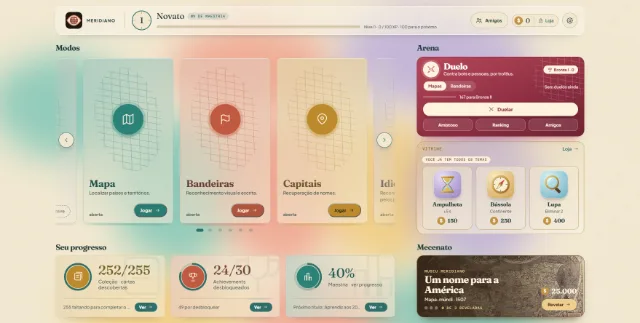
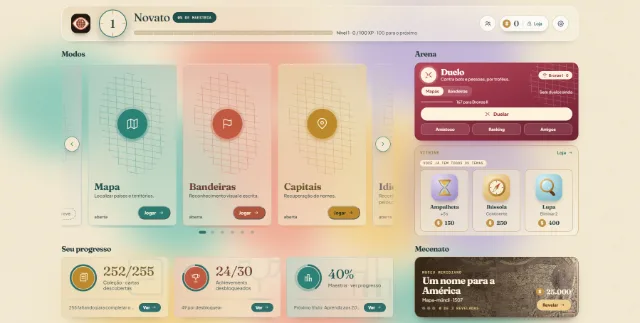
feat(hub): cabeçalho "medalhas" (jogador em destaque, títulos em medalhas e fichas brancas à direita)

diff --git a/src/hub.css b/src/hub.css
@@ -39,6 +39,38 @@
 .hx .hub-gear{display:grid;place-items:center;flex:none;width:42px;height:42px;padding:0;border:1px solid var(--line);border-radius:50%;background:var(--paper);color:var(--ink)}
 .hx .hub-gear:hover{border-color:var(--green);color:var(--green)}
 
+/* ───────── cabeçalho "medalhas" (04/10/2026; mock em mockups-carta-cega/hub-header, opção C) ─────────
+   Jogador em destaque: anel maior, títulos como medalhas de latão, maestria em pílula, barra de XP com marcas e fichas brancas à direita.
+   O fundo, a borda e a sombra continuam sendo dos temas; o brilho de latão é uma camada à parte (::before) para não brigar com eles. */
+.hx .hub-bar{position:relative}
+.hx .hub-bar::before{content:"";position:absolute;inset:0;border-radius:inherit;pointer-events:none;background:radial-gradient(120% 220% at 8% 0%,color-mix(in srgb,var(--brass) 22%,transparent),transparent 55%)}
+.hx .hub-bar>*{position:relative}
+.hx .hub-friends,.hx .hub-gear,.hx .hub-coin{background:rgba(255,255,255,.78);border:1px solid color-mix(in srgb,var(--line) 80%,#fff);color:var(--ink)}
+:root[data-scheme=dark] .hx .hub-friends,:root[data-scheme=dark] .hx .hub-gear,:root[data-scheme=dark] .hx .hub-coin{background:rgba(255,255,255,.09);border-color:rgba(255,255,255,.2)}
+@media (min-width:761px){
+  .hx .hub-bar{height:100px;padding:0 26px;gap:24px;border-radius:26px;box-shadow:0 22px 34px -24px rgba(36,59,58,.6)}
+  .hx .hub-brand{border-right:0;padding:0}
+  .hx .hub-brand span{display:none}
+  .hx .hub-brand .brand-logo{width:54px;height:54px;border-radius:15px;box-shadow:0 10px 16px -10px rgba(0,0,0,.6)}
+  .hx .hub-player{column-gap:20px;row-gap:7px}
+  .hx .hub-level{width:78px;height:78px;filter:drop-shadow(0 10px 14px rgba(36,59,58,.3))}
+  .hx .hub-level strong{font-size:32px}
+  .hx .hub-title{font-size:32px;letter-spacing:-.03em}
+  .hx .hub-badges{gap:7px}
+  .hx .hub-badge{width:34px;height:34px;padding:0;gap:0;border-radius:50%;background:linear-gradient(145deg,#f6dc9a,#c9953f);color:#3a2606;border:2px solid #fff6dc;box-shadow:0 6px 10px -5px rgba(90,60,10,.6)}
+  .hx .hub-badge svg{width:17px;height:17px}
+  .hx .hub-badge-label{position:absolute;width:1px;height:1px;overflow:hidden;clip:rect(0 0 0 0)}
+  .hx .hub-mastery{display:inline-flex;align-items:center;height:30px;padding:0 14px;border-radius:99px;background:color-mix(in srgb,var(--green) 62%,#04161a);color:#fff4df}
+  .hx .hub-mastery b{color:#fff4df}
+  .hx .hub-track{flex:1 1 240px;max-width:560px;height:12px;border-radius:7px;background-image:repeating-linear-gradient(90deg,transparent 0 calc(10% - 1px),rgba(255,255,255,.55) calc(10% - 1px) 10%);box-shadow:inset 0 1px 3px rgba(0,0,0,.2)}
+  .hx .hub-xp-label{font-size:12.5px;color:var(--ink)}
+  .hx .hub-friends{width:46px;height:46px;padding:0;justify-content:center;border-radius:50%}
+  .hx .hub-friends span{display:none}
+  .hx .hub-gear{width:46px;height:46px}
+  .hx .hub-coin{height:46px;padding:0 18px 0 8px;box-shadow:0 10px 16px -12px rgba(36,59,58,.55)}
+  .hx .hub-coin strong{font-size:22px}
+}
+
 /* ───────── grade ───────── */
 /* A página usa a largura que a janela der (até 1760 px): o Hub é a tela de entrada e as laterais ficavam vazias. A coluna da direita (Duelo, Vitrine) cresce
    com a janela e o vão entre as duas colunas também; os cartões de modo não encolhem, quem cede é o vão. */

diff --git a/CLAUDE.md b/CLAUDE.md
@@ -53,7 +53,7 @@ Este arquivo descreve o **rebuild** (estado em 25/09/2026). O jogo antigo, um ú
 Hub (4 famílias: Mapa, Bandeiras, Capitais, Idiomas; carrossel no celular; seletor Solo | Duelo, ver 3.2d) → "Configure a partida" (`match-config.tsx`: **Modo, Ritmo, Rodadas, Recorte, Filtro "Só membros da ONU"**, ligado por padrão desde 26/09; a escolha vale até fechar o app, não é gravada) → partida → resultado (`result-screen.tsx`, moedas/XP). Fora da partida: Progresso (Perfil, Maestria, Conquistas, Desempenho), Coleção (Países / Históricas), Conquistas, Loja (temas), Opções (idioma, tema, movimento reduzido, barra de tempo, progresso, mapa offline, debug). `useLeaveGuard`: sair no meio **não paga moedas nem XP**; com ao menos uma resposta pede confirmação.
 
 ### 3.2e Hub novo (03/10/2026, em etapas; mocks aprovados em `../mockups-carta-cega/hub-final`)
-O Hub (`screens.tsx`, `hub-parts.tsx`, `hub.css`) foi refeito: **header fino** de uma linha (marca, anel de nível com a moldura da liga, título, ícones dos títulos, chip de maestria, barra de XP, chip de troféus, moedas com a palavra "Loja", engrenagem; partidas e rodadas saíram do Hub, seguem no Progresso) e **grade 2×2**: à esquerda o **carrossel dos modos** (`HubCarousel`, **em laço**: 3 cartões inteiros por vez no desktop, 2 em tablet e 1 no celular, com a borda do vizinho aparecendo dos dois lados, setas nos dois sentidos, pontos, deslize por toque e clique no vizinho para avançar; hoje Mapa, Bandeiras, Capitais e Idiomas. O laço é a fila renderizada 3 vezes, só a do meio interativa e as outras `inert`, e a posição volta em silêncio para a do meio quando o deslize termina; o passo é medido com `getBoundingClientRect`, porque `offsetLeft` arredonda e o erro cresce a cada cartão) e embaixo "Seu progresso" (3 tiles verticais); à direita o **Duelo** (`HubDuel`) e a **Vitrine** (`HubShowcase`) e embaixo o **Mecenato** (`HubMuseum`, abre a aba do Museu da Coleção por `initialAlbum`). O interruptor Solo | Duelo **saiu**: o Duelo mora no próprio cartão (escada Mapas | Bandeiras, liga e troféus, últimos 5 resultados, "Duelar" na fila valendo, e Amistoso, Ranking e Amigos; buscando, vira "Procurando… m:ss", duelar contra bot e cancelar). O painel "Próximos prêmios" da arena antigo foi trocado pela barra "N para a próxima divisão" no cartão; `DuelArenas` e `duelMode` foram **removidos** em 04/10 (o tipo `ArenaSearch` mora em `hub-parts.tsx`; "Jogar contra bots" da tela da fila só volta ao Hub). **Vitrine:** `pickShowcaseTheme` (`hub-showcase.ts`, `test:hub-showcase`) mostra o tema mais caro que cabe no saldo (ou o mais barato que falta); **com todos os temas comprados destaca os três suprimentos** (Ampulheta, Bússola e Lupa, com ilustrações próprias em `supply-art.tsx`, usadas também na Loja) e o toque leva à Loja já na aba Suprimentos (`onOpenSupplies`, `storeTab` no `app.tsx`). **Cartão de modo:** precisão do pilar (`titleScore`) vinda do `syncAchievements` do app. **Ajustes de 04/10 (feedback do Enzo no link ao vivo):** o **chip de troféus/elo saiu do cabeçalho** (duplicava a pílula do cartão do Duelo, que segue abrindo a Liga) e entrou o botão **Amigos** (`.hub-friends`, ícone `people`; só ícone no celular); a marca ficou maior e o XP ocupa o meio; com a largura do cabeçalho sobrando, os selos de título mostram o nome a partir de 1280 px. O carrossel ganhou **Gentílicos e Moedas como "Em breve"** (cartões `.is-soon`, sem ação, na tinta do tema; quando o modo existir, vira item de `familyItems`). **"Seu progresso"** foi refeito no desktop: cada tile tem um **anel de progresso** em volta do ícone, o número grande, uma marca d'água do ícone, a legenda e um botão "Ver" (cor própria por tile, mais clara no esquema escuro; `--tile`). **Largura (04/10, pedido do Enzo):** o Hub usa até 1560 px (antes 1168; testei 1760 e as laterais do cabeçalho ficavam vazias, 04/10), com a coluna da direita entre 320 e 460 px e um vão de 30 a 60 px entre as colunas; os cartões de modo não encolhem, quem cede é o vão. **Celular (≤760 px):** tudo numa tela e sem rolagem: cabeçalho, **um modo por vez** num retângulo grande (carrossel em laço, com os vizinhos espiando e setas), Duelo em faixa e, na última linha antes da barra de baixo, Vitrine e Mecenato lado a lado; **o progresso saiu do celular** (a barra de baixo já cumpre o papel) e as pílulas "Mais modos" também (todos os modos estão no carrossel). Em telefone baixo (≤700 px de altura) somem a descrição e o resumo da última partida do cartão. CSS: `hub.css` vem depois do `index.css` e antes dos temas; os temas seguem pintando `.hub-bar`, `.family` e os tiles; as peças novas só usam variáveis de cor. **"Continuar" embutido (etapa 2):** ao começar uma partida solo o app grava a configuração do modo (`carta-last-config:<modo>`, `parseLastConfig` em `presets.ts`, testado em `test:presets`); o cartão mostra uma pílula com ela (nome da favorita, ex. "Escrita · Mundo · 20"), o botão **Continuar** (repete sem passar pela configuração; `continueGame` no `app.tsx`, que cai na configuração se o modo ou o corte de rodadas não estiver liberado) e o ícone de **ajustar** (abre a configuração); sem partida gravada, só "Jogar". O cartão inteiro é uma sobreposição (`.hx-hit`) que abre a configuração. A barra de baixo do celular passou a ter os cinco destinos com rótulo (Modos, Coleção, Conquistas, Progresso e **Loja**; as Opções abrem pela engrenagem do Hub). **Loja reimaginada (etapa 3, 03/10/2026; `store-view.tsx`, `store.css`, `domain/store-catalog.ts`, `test:store-catalog`):** a tela é uma vitrine, não uma lista: barra fina (← Hub, "Loja", saldo), **destaque** (`pickShowcaseTheme`, o mesmo do Hub: o tema mais caro que cabe, senão o mais barato que falta, com barra "Você tem X · faltam Y"; some quando todos os temas são seus), **abas** Tudo, Temas, Modos, Rodadas, Suprimentos e Ligas (contadores do que falta comprar, `storeCounts`), **"Sugestões para você"** (`storeSuggestions`: o modo mais barato, o tema mais perto do saldo, o corte de rodadas mais barato e um suprimento), seções por tipo e a faixa do Mecenato (abre a aba Museu da Coleção). **Tudo o que se compra passa por uma confirmação** (`PurchaseDialog`: preço, saldo, depois ou quanto falta; folha inferior no celular; Esc fecha; suprimento tem seletor de quantidade). Modos à venda vêm de `POLICIES` (custo > 0) e se compram com `unlockContent(família, variante, "mundo")`; cortes de rodada com `unlockRounds`; temas e suprimentos como antes. **Experimentar (04/10):** na confirmação de compra de um tema (e no destaque) há "Experimentar": o tema vale na tela sem gravar nem cobrar (`tryTheme`/`trial` no `app.tsx`; o `localStorage` segue com o tema de verdade), uma faixa `TrialBar` avisa no Hub e na Loja, e o teste acaba quando a pessoa **sai do resultado da próxima partida** (ou em "Sair do teste"); comprar durante o teste limpa o teste. Temas de liga não se experimentam. **Sem temas a comprar, o destaque do topo mostra os três suprimentos** (como a Vitrine do Hub). **Largura e cor (04/10):** a Loja usa a mesma largura do Hub (até 1560 px) com colunas que se adaptam (`auto-fill`); as linhas curtas da aba Tudo mostram 4 cartões (6 acima de 1500 px) e os cartões de modo levam a cor da família (Mapa, Bandeiras, Capitais, Idiomas; `modeFam`), enquanto rodadas e suprimentos ficam na tinta do tema. **Prévias dos temas** (`scripts/build-theme-previews.mjs`, mostradas no destaque e nos cartões da Loja e na Vitrine) foram regeradas para o Hub novo: BASE padrão `127.0.0.1:5101` (servidor de desenvolvimento, nunca a 5000), perfil de amostra com todos os temas (por isso a Vitrine sai com os suprimentos em todas), `captureBeyondViewport:false` (o padrão do Puppeteer redimensiona a janela e o scroll-snap do carrossel trocava de cartão) e a captura é reduzida no próprio Chrome para 640×323, uns 20 KB cada. Rode de novo quando o Hub ou o CSS de um tema mudar. O CSS antigo `store-*` dos temas foi removido em 04/10 (sobrou só `.store-swatches`, agora em `store.css`, usado também pela Vitrine do Hub). Cores só por variáveis do tema (`color-mix` com `--brass`, `--green`, `--ink`), então os temas escuros não pedem regra própria; `audit-theme.mjs <tema> loja` (agora com as abas novas e as duas confirmações) fecha com 0 violações em Pigmentos, Noturno, Cartógrafo, Prata, Aquarela e Atlas no desktop e em Pigmentos, Noturno, Cartógrafo e Atlas no celular. Junto saíram o ícone `check` e o ícone `close` (o `cross` do projeto desenha um "+") e a barra superior genérica (`.topbar`) dos temas escuros, que ficava creme (`themes-dark.css`). **Mesa de jogo (04/10/2026; `match-config.tsx`, `mesa.css`, mock `hub-v10` n4–n7):** a tela "Configure a partida" virou a Mesa: **a Mesa mostra só os modos da família que foi aberta** (decisão do Enzo, 04/10: quem clica em Mapas vê modos de mapa; a faixa que trocava de família foi tirada), em cartões grandes sob o rótulo "Modo" (com dica, cadeado e preço), Ritmo, Rodadas e Recorte lado a lado, filtro da ONU, Favoritas e a barra de resumo com "Começar". O topo é a `ScreenBar` (`screen-bar.tsx`, a mesma da Loja: marca, voltar, ícone da família ou título, saldo). A família pinta a tela (`data-fam` no `.mz` entrega o `--h` do tema). Ao lado: **Seu histórico** (anel com a precisão do pilar; **sem o gráfico das últimas partidas e sem "Mais difíceis para você" nem "Pergunta de exemplo" do mock**, que pedem dados/textos novos) e **Recompensa** (moedas por acerto, teto de sequência `STREAK_CAP` e bônus por rodada completa). Toda a lógica da tela antiga (compra de modo e de corte de rodadas, direção das bandeiras, favoritas) foi mantida. **Armadilha (achada na Mesa):** o carrossel do Hub trata clique **sem coordenadas** (`element.click()`) como clique no vizinho; testes de navegador precisam de clique de verdade (`openMode` em `audit-theme.mjs`). **Bug corrigido junto:** em temas que põem camadas sobre o cartão (Noturno) a arte do cartão do Hub interceptava o clique; `.family-visual` e `.family-copy` agora têm `pointer-events:none`.
+O Hub (`screens.tsx`, `hub-parts.tsx`, `hub.css`) foi refeito: **header fino** de uma linha (marca, anel de nível com a moldura da liga, título, ícones dos títulos, chip de maestria, barra de XP, chip de troféus, moedas com a palavra "Loja", engrenagem; partidas e rodadas saíram do Hub, seguem no Progresso) e **grade 2×2**: à esquerda o **carrossel dos modos** (`HubCarousel`, **em laço**: 3 cartões inteiros por vez no desktop, 2 em tablet e 1 no celular, com a borda do vizinho aparecendo dos dois lados, setas nos dois sentidos, pontos, deslize por toque e clique no vizinho para avançar; hoje Mapa, Bandeiras, Capitais e Idiomas. O laço é a fila renderizada 3 vezes, só a do meio interativa e as outras `inert`, e a posição volta em silêncio para a do meio quando o deslize termina; o passo é medido com `getBoundingClientRect`, porque `offsetLeft` arredonda e o erro cresce a cada cartão) e embaixo "Seu progresso" (3 tiles verticais); à direita o **Duelo** (`HubDuel`) e a **Vitrine** (`HubShowcase`) e embaixo o **Mecenato** (`HubMuseum`, abre a aba do Museu da Coleção por `initialAlbum`). O interruptor Solo | Duelo **saiu**: o Duelo mora no próprio cartão (escada Mapas | Bandeiras, liga e troféus, últimos 5 resultados, "Duelar" na fila valendo, e Amistoso, Ranking e Amigos; buscando, vira "Procurando… m:ss", duelar contra bot e cancelar). O painel "Próximos prêmios" da arena antigo foi trocado pela barra "N para a próxima divisão" no cartão; `DuelArenas` e `duelMode` foram **removidos** em 04/10 (o tipo `ArenaSearch` mora em `hub-parts.tsx`; "Jogar contra bots" da tela da fila só volta ao Hub). **Vitrine:** `pickShowcaseTheme` (`hub-showcase.ts`, `test:hub-showcase`) mostra o tema mais caro que cabe no saldo (ou o mais barato que falta); **com todos os temas comprados destaca os três suprimentos** (Ampulheta, Bússola e Lupa, com ilustrações próprias em `supply-art.tsx`, usadas também na Loja) e o toque leva à Loja já na aba Suprimentos (`onOpenSupplies`, `storeTab` no `app.tsx`). **Cartão de modo:** precisão do pilar (`titleScore`) vinda do `syncAchievements` do app. **Cabeçalho "medalhas" (04/10, opção C dos mocks em `mockups-carta-cega/hub-header`, escolhida pelo Enzo):** barra de 100 px (desktop) com anel de nível de 78 px, nome grande, **títulos como medalhas redondas de latão** (o nome fica em `title` e no rótulo para leitor de tela), maestria em pílula verde-escura, barra de XP com marcas de 10%, marca só com o logo, e à direita **Amigos, moedas e engrenagem em fichas brancas** (decisão do Enzo: a pílula de moedas em latão brigava com a moeda dourada). O brilho de latão é um `::before` à parte, então fundo, borda e raio de cada tema seguem sendo dos temas; no celular o cabeçalho compacto de antes só ganhou as fichas brancas. Mocks B (peças soltas) e D (faixa escura) ficaram descartados. **Ajustes de 04/10 (feedback do Enzo no link ao vivo):** o **chip de troféus/elo saiu do cabeçalho** (duplicava a pílula do cartão do Duelo, que segue abrindo a Liga) e entrou o botão **Amigos** (`.hub-friends`, ícone `people`; só ícone no celular); a marca ficou maior e o XP ocupa o meio; com a largura do cabeçalho sobrando, os selos de título mostram o nome a partir de 1280 px. O carrossel ganhou **Gentílicos e Moedas como "Em breve"** (cartões `.is-soon`, sem ação, na tinta do tema; quando o modo existir, vira item de `familyItems`). **"Seu progresso"** foi refeito no desktop: cada tile tem um **anel de progresso** em volta do ícone, o número grande, uma marca d'água do ícone, a legenda e um botão "Ver" (cor própria por tile, mais clara no esquema escuro; `--tile`). **Largura (04/10, pedido do Enzo):** o Hub usa até 1560 px (antes 1168; testei 1760 e as laterais do cabeçalho ficavam vazias, 04/10), com a coluna da direita entre 320 e 460 px e um vão de 30 a 60 px entre as colunas; os cartões de modo não encolhem, quem cede é o vão. **Celular (≤760 px):** tudo numa tela e sem rolagem: cabeçalho, **um modo por vez** num retângulo grande (carrossel em laço, com os vizinhos espiando e setas), Duelo em faixa e, na última linha antes da barra de baixo, Vitrine e Mecenato lado a lado; **o progresso saiu do celular** (a barra de baixo já cumpre o papel) e as pílulas "Mais modos" também (todos os modos estão no carrossel). Em telefone baixo (≤700 px de altura) somem a descrição e o resumo da última partida do cartão. CSS: `hub.css` vem depois do `index.css` e antes dos temas; os temas seguem pintando `.hub-bar`, `.family` e os tiles; as peças novas só usam variáveis de cor. **"Continuar" embutido (etapa 2):** ao começar uma partida solo o app grava a configuração do modo (`carta-last-config:<modo>`, `parseLastConfig` em `presets.ts`, testado em `test:presets`); o cartão mostra uma pílula com ela (nome da favorita, ex. "Escrita · Mundo · 20"), o botão **Continuar** (repete sem passar pela configuração; `continueGame` no `app.tsx`, que cai na configuração se o modo ou o corte de rodadas não estiver liberado) e o ícone de **ajustar** (abre a configuração); sem partida gravada, só "Jogar". O cartão inteiro é uma sobreposição (`.hx-hit`) que abre a configuração. A barra de baixo do celular passou a ter os cinco destinos com rótulo (Modos, Coleção, Conquistas, Progresso e **Loja**; as Opções abrem pela engrenagem do Hub). **Loja reimaginada (etapa 3, 03/10/2026; `store-view.tsx`, `store.css`, `domain/store-catalog.ts`, `test:store-catalog`):** a tela é uma vitrine, não uma lista: barra fina (← Hub, "Loja", saldo), **destaque** (`pickShowcaseTheme`, o mesmo do Hub: o tema mais caro que cabe, senão o mais barato que falta, com barra "Você tem X · faltam Y"; some quando todos os temas são seus), **abas** Tudo, Temas, Modos, Rodadas, Suprimentos e Ligas (contadores do que falta comprar, `storeCounts`), **"Sugestões para você"** (`storeSuggestions`: o modo mais barato, o tema mais perto do saldo, o corte de rodadas mais barato e um suprimento), seções por tipo e a faixa do Mecenato (abre a aba Museu da Coleção). **Tudo o que se compra passa por uma confirmação** (`PurchaseDialog`: preço, saldo, depois ou quanto falta; folha inferior no celular; Esc fecha; suprimento tem seletor de quantidade). Modos à venda vêm de `POLICIES` (custo > 0) e se compram com `unlockContent(família, variante, "mundo")`; cortes de rodada com `unlockRounds`; temas e suprimentos como antes. **Experimentar (04/10):** na confirmação de compra de um tema (e no destaque) há "Experimentar": o tema vale na tela sem gravar nem cobrar (`tryTheme`/`trial` no `app.tsx`; o `localStorage` segue com o tema de verdade), uma faixa `TrialBar` avisa no Hub e na Loja, e o teste acaba quando a pessoa **sai do resultado da próxima partida** (ou em "Sair do teste"); comprar durante o teste limpa o teste. Temas de liga não se experimentam. **Sem temas a comprar, o destaque do topo mostra os três suprimentos** (como a Vitrine do Hub). **Largura e cor (04/10):** a Loja usa a mesma largura do Hub (até 1560 px) com colunas que se adaptam (`auto-fill`); as linhas curtas da aba Tudo mostram 4 cartões (6 acima de 1500 px) e os cartões de modo levam a cor da família (Mapa, Bandeiras, Capitais, Idiomas; `modeFam`), enquanto rodadas e suprimentos ficam na tinta do tema. **Prévias dos temas** (`scripts/build-theme-previews.mjs`, mostradas no destaque e nos cartões da Loja e na Vitrine) foram regeradas para o Hub novo: BASE padrão `127.0.0.1:5101` (servidor de desenvolvimento, nunca a 5000), perfil de amostra com todos os temas (por isso a Vitrine sai com os suprimentos em todas), `captureBeyondViewport:false` (o padrão do Puppeteer redimensiona a janela e o scroll-snap do carrossel trocava de cartão) e a captura é reduzida no próprio Chrome para 640×323, uns 20 KB cada. Rode de novo quando o Hub ou o CSS de um tema mudar. O CSS antigo `store-*` dos temas foi removido em 04/10 (sobrou só `.store-swatches`, agora em `store.css`, usado também pela Vitrine do Hub). Cores só por variáveis do tema (`color-mix` com `--brass`, `--green`, `--ink`), então os temas escuros não pedem regra própria; `audit-theme.mjs <tema> loja` (agora com as abas novas e as duas confirmações) fecha com 0 violações em Pigmentos, Noturno, Cartógrafo, Prata, Aquarela e Atlas no desktop e em Pigmentos, Noturno, Cartógrafo e Atlas no celular. Junto saíram o ícone `check` e o ícone `close` (o `cross` do projeto desenha um "+") e a barra superior genérica (`.topbar`) dos temas escuros, que ficava creme (`themes-dark.css`). **Mesa de jogo (04/10/2026; `match-config.tsx`, `mesa.css`, mock `hub-v10` n4–n7):** a tela "Configure a partida" virou a Mesa: **a Mesa mostra só os modos da família que foi aberta** (decisão do Enzo, 04/10: quem clica em Mapas vê modos de mapa; a faixa que trocava de família foi tirada), em cartões grandes sob o rótulo "Modo" (com dica, cadeado e preço), Ritmo, Rodadas e Recorte lado a lado, filtro da ONU, Favoritas e a barra de resumo com "Começar". O topo é a `ScreenBar` (`screen-bar.tsx`, a mesma da Loja: marca, voltar, ícone da família ou título, saldo). A família pinta a tela (`data-fam` no `.mz` entrega o `--h` do tema). Ao lado: **Seu histórico** (anel com a precisão do pilar; **sem o gráfico das últimas partidas e sem "Mais difíceis para você" nem "Pergunta de exemplo" do mock**, que pedem dados/textos novos) e **Recompensa** (moedas por acerto, teto de sequência `STREAK_CAP` e bônus por rodada completa). Toda a lógica da tela antiga (compra de modo e de corte de rodadas, direção das bandeiras, favoritas) foi mantida. **Armadilha (achada na Mesa):** o carrossel do Hub trata clique **sem coordenadas** (`element.click()`) como clique no vizinho; testes de navegador precisam de clique de verdade (`openMode` em `audit-theme.mjs`). **Bug corrigido junto:** em temas que põem camadas sobre o cartão (Noturno) a arte do cartão do Hub interceptava o clique; `.family-visual` e `.family-copy` agora têm `pointer-events:none`.
 - **Cuidado ao verificar o build (aprendido em 03/10):** o servidor da porta 5000 roda `vite preview` com a pasta do projeto como `cwd`, então serve o **`dist/` do próprio repositório**. `npm run build` aqui **publica na hora** o que estiver na árvore de trabalho, sem passar pelo `servidor.mjs`. Para só conferir que o build fecha, rode o `tsc -b` e `npx vite build --outDir .tmp-build --emptyOutDir` (a pasta está no `.gitignore` por `.tmp-*`; apague depois). Desde 04/10 o plugin de precache do `vite.config.ts` respeita o `outDir` (antes gravava no `dist/` fixo e o `--outDir` ainda mexia no `dist/` ao vivo); conferido que o `dist/` não muda. `test:manifest` e o resto do `npm run build` leem o `dist/`, então só rodam no build de verdade. `audit-theme.mjs` (cenas hub/duelo/revelacao/liga/config) passa com 0 violações em Pigmentos, Noturno, Cartógrafo, Prata, Atlas, Aquarela e Ateliê (desktop) e Pigmentos/Noturno (celular).
 
 ### 3.2b Favoritas (configurações guardadas)
